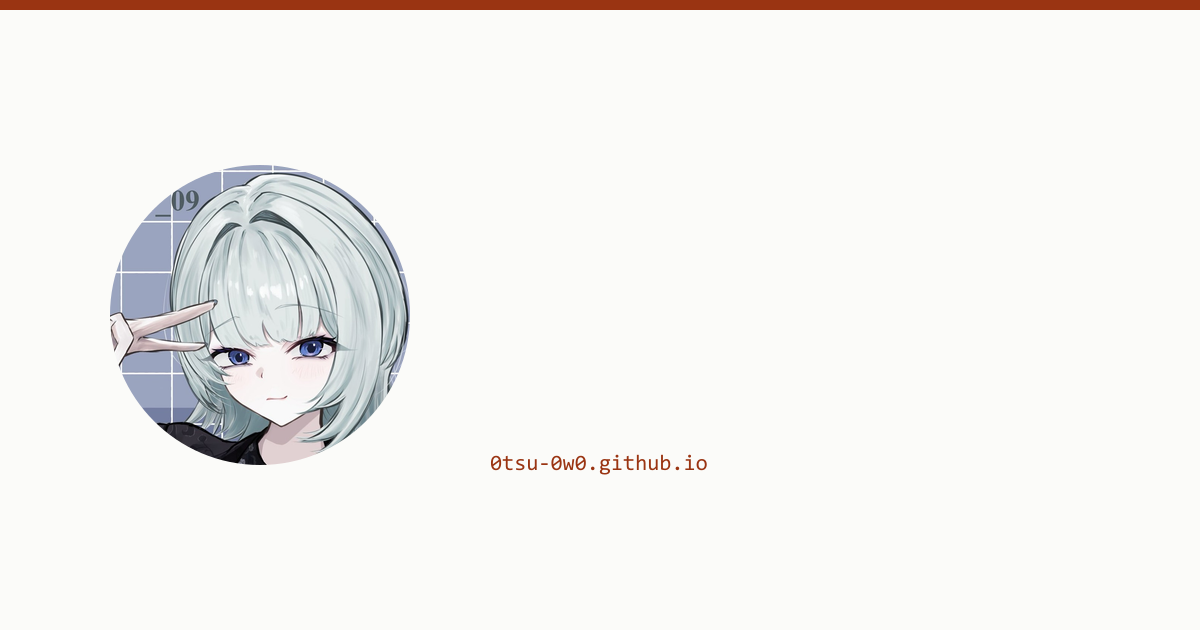
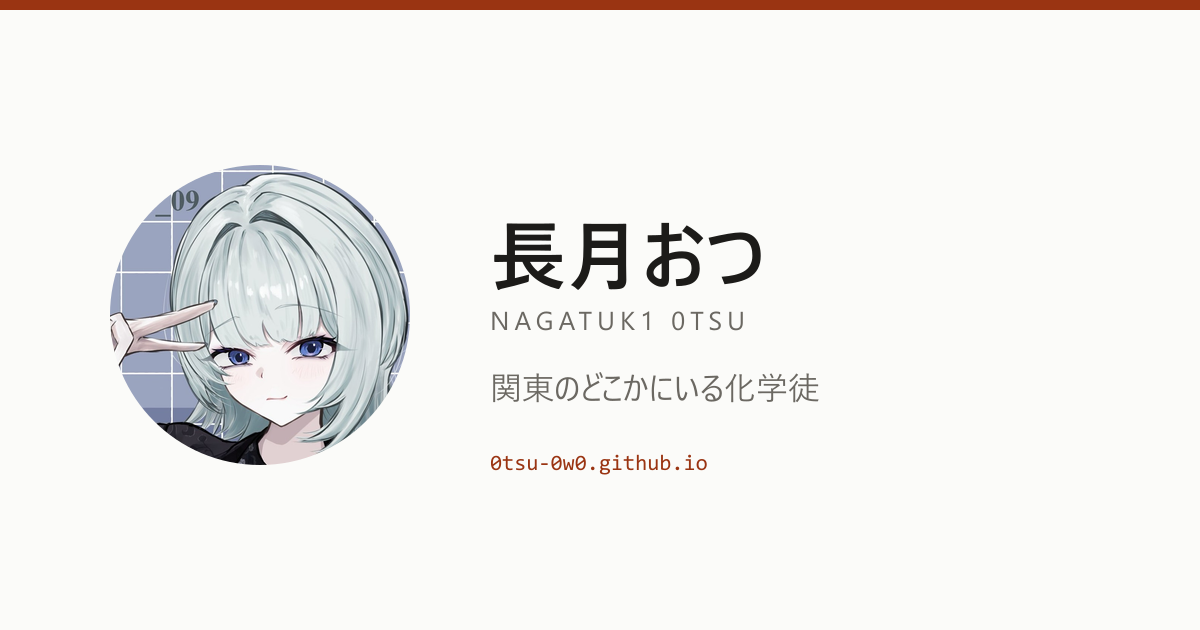
OGP を整備し、共有カード画像を追加する
Open Graph と X のカード用のメタタグを一通り入れた。Facebook・X・LINE・
Discord・Slack・Mastodon・Bluesky など OGP を読むサービスで、画像付きの
カードとして表示される。記事ページは og:type を article にし、公開日・
更新日・タグも出す。

カード画像 public/og.png は npm run og-image で作り直す。アイコンと
site.config.ts の名前・タグラインから 1200x630 の PNG を組み立てる。
記事ごとの差し替え用に、フロントマターの image も受け付ける。

Changed region(s): [[0.4008, 0.3317, 0.6475, 0.5429], [0.4008, 0.573, 0.6783, 0.6333], [0.555, 0.4825, 0.6167, 0.5429]]

diff --git a/src/content.config.ts b/src/content.config.ts
@@ -9,6 +9,8 @@ const postSchema = z.object({
   pubDate: z.coerce.date(),
   updatedDate: z.coerce.date().optional(),
   tags: z.array(z.string()).default([]),
+  /** この記事だけ SNS のカード画像を変えたいとき（public/ からのパス） */
+  image: z.string().optional(),
   /** true にすると、公開済みの記事を一覧・詳細ページから外せます */
   draft: z.boolean().default(false),
 });
@@ -23,6 +25,7 @@ const draftSchema = z.object({
   pubDate: z.coerce.date().catch(() => new Date()),
   updatedDate: z.coerce.date().optional().catch(undefined),
   tags: z.array(z.string()).catch([]),
+  image: z.string().optional().catch(undefined),
   draft: z.boolean().catch(false),
 });
 

diff --git a/src/site.config.ts b/src/site.config.ts
@@ -21,6 +21,15 @@ export const site = {
    * null にすると name の頭文字が代わりに表示されます。
    */
   avatar: '/avatar.jpg',
+  /**
+   * SNS で共有されたときに出るカード画像。1200x630。
+   * npm run og-image で作り直せます。
+   */
+  ogImage: '/og.png',
+  /** X のアカウント。カードの「@」表示に使われます */
+  twitterHandle: '@_0tmz4_09',
+  /** og:locale。日本語のページなので ja_JP */
+  locale: 'ja_JP',
 } as const;
 
 /**

diff --git a/README.md b/README.md
@@ -240,6 +240,36 @@ Remove-Item -Recurse -Force node_modules/.astro
 
 `npm run publish-post` は、公開前のビルド確認をする前に自動で捨てています。
 
+## SNS で共有されたときの見え方（OGP）
+
+すべてのページに Open Graph と X のカード用のメタタグが入っています。
+Facebook・X・LINE・Discord・Slack・Mastodon・Bluesky・はてなブックマークなど、
+OGP を読む一般的なサービスで、タイトル・説明・画像付きのカードとして表示されます。
+
+カード画像は `public/og.png`（1200x630）です。名前やタグラインを変えたら
+作り直してください。
+
+```
+npm run og-image
+```
+
+生成に使う素材は `public/avatar.jpg` と `src/site.config.ts` の
+`name` / `nameRoman` / `tagline` です。レイアウトを変えたいときは
+`scripts/og-image.mjs` を編集します。**生成した PNG はコミットします**
+（公開時のビルドでは作り直しません）。
+
+記事ごとにカード画像を変えたいときは、フロントマターに `image` を足します。
+
+```markdown
+---
+title: '記事のタイトル'
+image: '/og-posts/my-post.png'
+---
+```
+
+記事ページは `og:type` が `article` になり、公開日・更新日・タグも
+メタタグとして出力されます。
+
 ## SNS などの埋め込み
 
 段落に URL だけを 1 行で書くと、埋め込みに変わります（note と同じ書き方です）。
